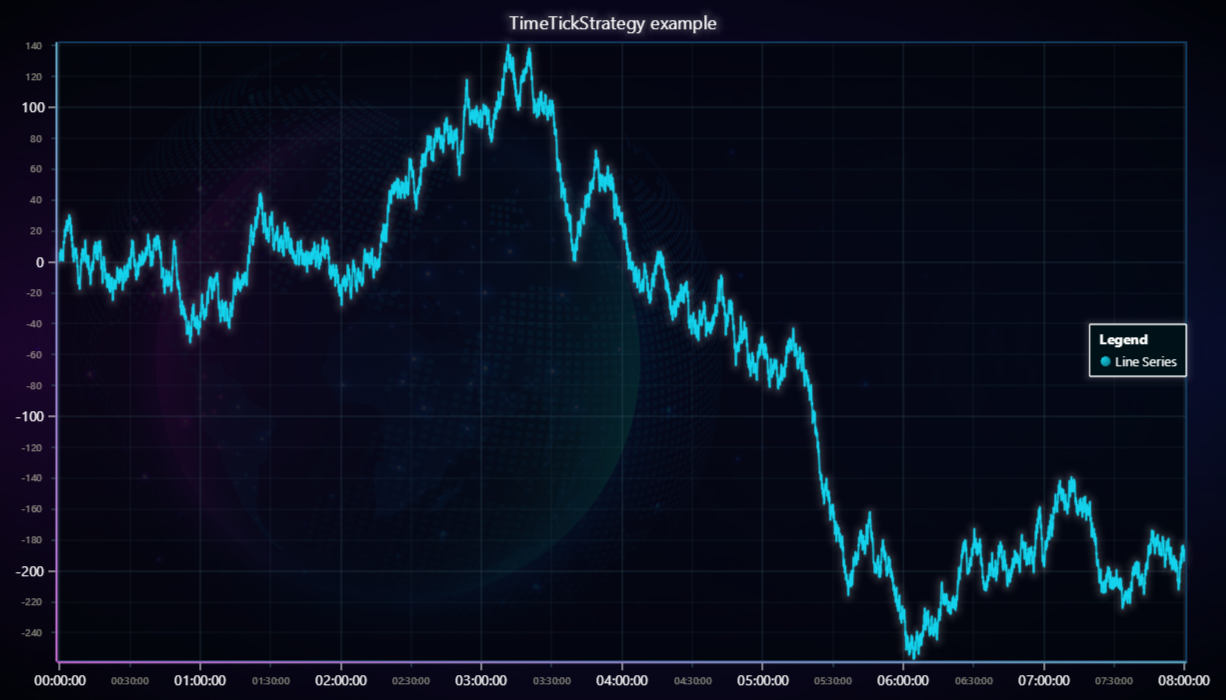
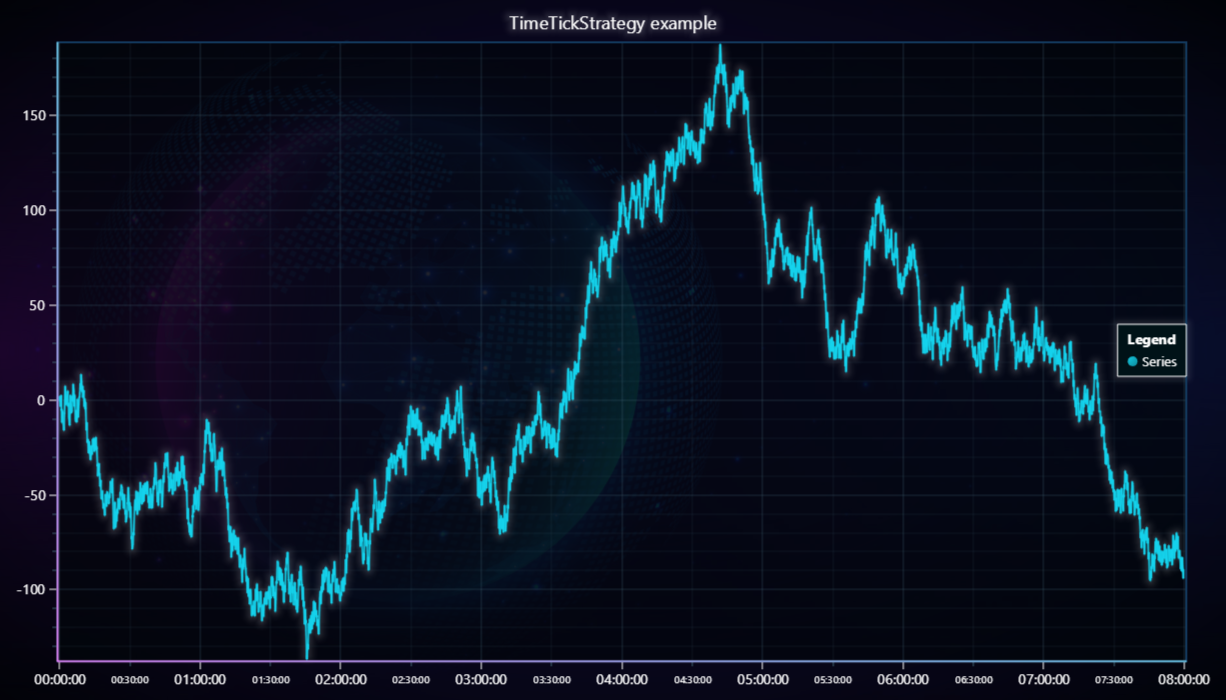
LCJS v7.0.1

Changed region(s): [[0.0, 0.06, 0.9918, 0.99]]

diff --git a/src/index.js b/src/index.js
@@ -7,7 +7,7 @@ const lcjs = require('@lightningchart/lcjs')
 const xydata = require('@lightningchart/xydata')
 
 // Extract required parts from LightningChartJS.
-const { lightningChart, AxisTickStrategies, Themes } = lcjs
+const { lightningChart, AxisTickStrategies, emptyFill, Themes } = lcjs
 
 // Import data-generators from 'xydata'-library.
 const { createProgressiveTraceGenerator } = xydata
@@ -19,7 +19,6 @@ const chart = lightningChart({
         theme: Themes[new URLSearchParams(window.location.search).get('theme') || 'darkGold'] || undefined,
     })
     .setTitle('TimeTickStrategy example')
-    .setPadding({ right: 40 })
 
 const axisX = chart
     .getDefaultAxisX()
@@ -28,11 +27,11 @@ const axisX = chart
 
 const axisY = chart.getDefaultAxisY()
 
-const series = chart.addLineSeries({
-    dataPattern: {
-        pattern: 'ProgressiveX',
-    },
-})
+const series = chart
+    .addPointLineAreaSeries({
+        dataPattern: 'ProgressiveX',
+    })
+    .setAreaFillStyle(emptyFill)
 
 const legend = chart
     .addLegendBox()

diff --git a/README.md b/README.md
@@ -81,10 +81,10 @@ Direct developer email support can be purchased through a [Support Plan][4] or b
 © LightningChart Ltd 2009-2022. All rights reserved.
 
 
-[LightningChart]: https://lightningchart.com/js-charts/api-documentation/v6.1.0/functions/lightningChart-1.html
-[Automatic tick placement strategies]: https://lightningchart.com/js-charts/api-documentation/v6.1.0/variables/AxisTickStrategies.html
-[Chart XY]: https://lightningchart.com/js-charts/api-documentation/v6.1.0/classes/ChartXY.html
-[Axis XY]: https://lightningchart.com/js-charts/api-documentation/v6.1.0/classes/Axis.html
-[Line Series XY]: https://lightningchart.com/js-charts/api-documentation/v6.1.0/classes/LineSeries.html
-[Legend Box]: https://lightningchart.com/js-charts/api-documentation/v6.1.0/classes/Chart.html#addLegendBox
+[LightningChart]: https://lightningchart.com/js-charts/api-documentation/v7.0.1/functions/lightningChart-1.html
+[Automatic tick placement strategies]: https://lightningchart.com/js-charts/api-documentation/v7.0.1/variables/AxisTickStrategies.html
+[Chart XY]: https://lightningchart.com/js-charts/api-documentation/v7.0.1/classes/ChartXY.html
+[Axis XY]: https://lightningchart.com/js-charts/api-documentation/v7.0.1/classes/Axis.html
+[Line Series XY]: https://lightningchart.com/js-charts/api-documentation/v7.0.1/classes/LineSeries.html
+[Legend Box]: https://lightningchart.com/js-charts/api-documentation/v7.0.1/classes/Chart.html#addLegendBox
 
